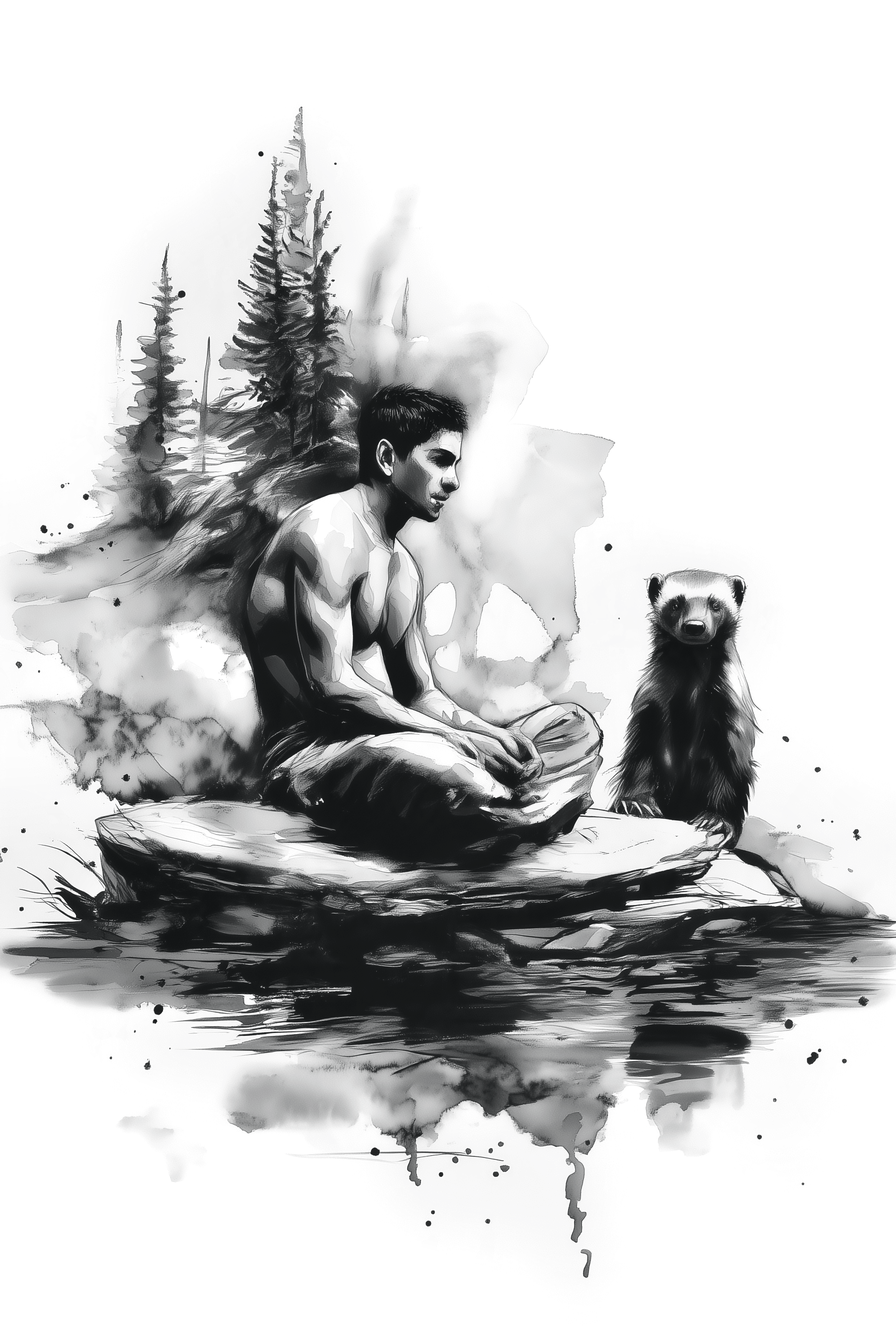
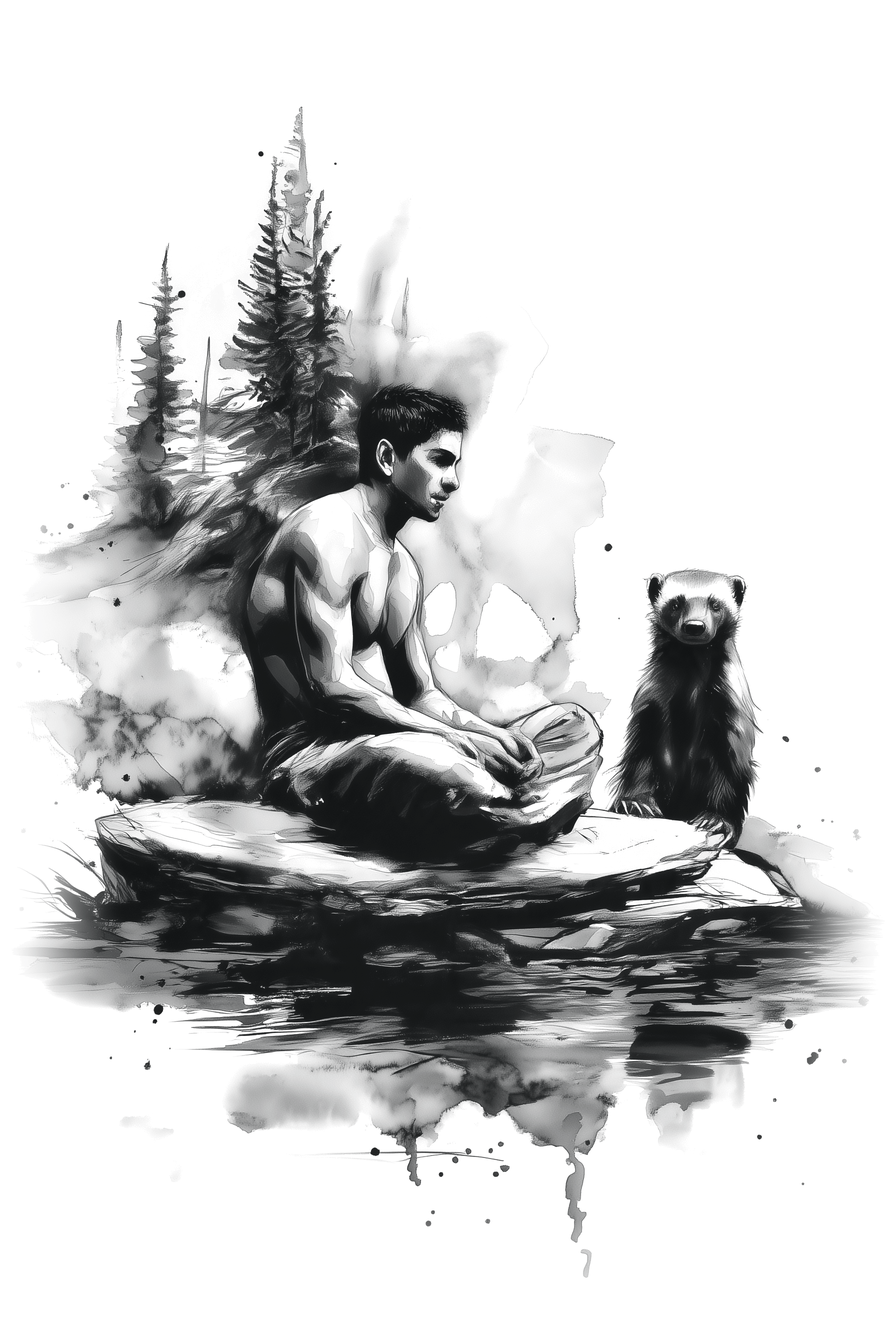
feat(skills): a tool shows up in every direction it serves
OpenAPI, Apollo and the rest are not backend-only: the front end talks
to them every day. And anything that spans directions is fullstack by
definition.

- A tool keeps one home row (the job it does there) and now names every
  direction it works in. Each tab shows what it borrows from the others
  in a "cross-cutting" row, and the fullstack tab collects all of them.
- The dot's tooltip lists the whole set, fullstack included: Git works
  in frontend, backend, devops and fullstack.

Also: the About painting fades to nothing at its edges. It is levelled,
turned into ink on transparency, the palest wash is dropped as paper and
the borders are feathered in the file itself, so there is no edge left
to see — the CSS mask is gone with it.

diff --git a/src/pages/home/views/sections/SkillsSection.vue b/src/pages/home/views/sections/SkillsSection.vue
@@ -5,7 +5,8 @@ import { useInView } from '@/shared/composables/useInView'
 import {
   allChips,
   coreSkills,
-  crossChips,
+  crossFor,
+  directionsOf,
   stackCount,
   stackGroups,
   strongChips,
@@ -25,12 +26,19 @@ const matches = (chip: string) => chip.toLowerCase().includes(query.value.trim()
 const strong = (chip: string) => strongChips.includes(chip)
 // marked with a dot: one home on the shelf, but it works in other directions too,
 // and the mark says which ones instead of listing the tool twice
-const cross = (chip: string) => crossChips[chip] ?? null
-const alsoIn = (chip: string) => {
-  const directions = cross(chip)
-  if (!directions) return undefined
-  const list = directions.map((id) => t(`home.skills.tabs.${id}`)).join(', ')
+const cross = (chip: string) => directionsOf(chip).length > 1
+const worksIn = (chip: string) => {
+  if (!cross(chip)) return undefined
+  const list = directionsOf(chip)
+    .map((id) => t(`home.skills.tabs.${id}`))
+    .join(', ')
   return t('home.skills.alsoIn', { list })
+}
+
+// a direction shows its own rows plus what it borrows from the others
+const rowsOf = (group: (typeof stackGroups)[number]) => {
+  const borrowed = crossFor(group.id)
+  return borrowed.length ? [...group.rows, { id: 'cross', chips: borrowed }] : group.rows
 }
 
 // While searching the tabs step aside: the results come from all four
@@ -39,7 +47,7 @@ const shelfGroups = computed(() =>
   (searching.value ? stackGroups : stackGroups.filter(({ id }) => id === tab.value))
     .map((group) => ({
       ...group,
-      rows: group.rows
+      rows: rowsOf(group)
         .map((row) => ({ ...row, chips: searching.value ? row.chips.filter(matches) : row.chips }))
         .filter(({ chips }) => chips.length),
     }))
@@ -183,16 +191,16 @@ const found = computed(() => allChips.filter(matches).length)
                 class="skills__chip"
                 :class="{
                   'skills__chip--strong': strong(chip),
-                  'skills__chip--cross': !!cross(chip),
+                  'skills__chip--cross': cross(chip),
                 }"
                 :tabindex="cross(chip) ? 0 : undefined"
-                :data-tip="alsoIn(chip)"
+                :data-tip="worksIn(chip)"
                 >{{ chip
                 }}<span
                   v-if="cross(chip)"
                   class="skills__tip"
                   role="tooltip"
-                  >{{ alsoIn(chip) }}</span
+                  >{{ worksIn(chip) }}</span
                 ></span
               >
             </div>

diff --git a/src/pages/home/model/portfolio.ts b/src/pages/home/model/portfolio.ts
@@ -124,16 +124,53 @@ export const stackGroups: StackGroup[] = [
 ]
 
 /**
- * Tools that genuinely work in more than one direction. They keep a single
- * home on the shelf (so nothing is listed twice) and name the other
- * directions they also belong to.
+ * Tools that work in more than one direction. Each keeps a home row (so the
+ * shelf reads as a list of jobs, not a wall of repeats) and names the other
+ * directions it belongs to; every tab then shows them again in a
+ * "cross-cutting" row. Anything that spans directions is fullstack by
+ * definition, so the fullstack tab collects all of them.
  */
 export const crossChips: Record<string, StackId[]> = {
   TypeScript: ['backend'],
-  Node: ['devops'],
+  Node: ['frontend', 'devops'],
   'REST API': ['frontend'],
+  'OpenAPI / Swagger': ['frontend'],
+  'Apollo (GraphQL)': ['frontend'],
+  CryptoPro: ['frontend'],
+  reCAPTCHA: ['frontend'],
   Docker: ['backend'],
   'Git (GitHub / GitLab)': ['frontend', 'backend', 'devops'],
+  Vite: ['devops'],
+  Webpack: ['devops'],
+  Vitest: ['frontend', 'backend'],
+  'ESLint / Prettier': ['frontend', 'backend'],
+  i18n: ['frontend'],
+  'Yandex Metrica': ['frontend'],
+  Postman: ['backend'],
+}
+
+/** Which direction a tool is filed under. */
+export const homeOf = (chip: string): StackId | undefined =>
+  stackGroups.find(({ rows }) => rows.some((row) => row.chips.includes(chip)))?.id
+
+/**
+ * The tools a direction borrows: everything filed elsewhere that also works
+ * here. Fullstack borrows every cross-cutting tool, since spanning directions
+ * is what fullstack means.
+ */
+export const crossFor = (id: StackId): string[] =>
+  Object.entries(crossChips)
+    .filter(([chip, directions]) =>
+      id === 'fullstack' ? homeOf(chip) !== 'fullstack' : directions.includes(id)
+    )
+    .map(([chip]) => chip)
+
+/** Every direction a tool works in, its home first. */
+export const directionsOf = (chip: string): StackId[] => {
+  const home = homeOf(chip)
+  const others = crossChips[chip] ?? []
+  const all = home ? [home, ...others] : others
+  return all.length > 1 && !all.includes('fullstack') ? [...all, 'fullstack'] : all
 }
 
 /** Worked with day to day: these are inked solid, the rest are outlines. */

diff --git a/src/pages/home/model/portfolio.test.ts b/src/pages/home/model/portfolio.test.ts
@@ -6,6 +6,9 @@ import {
   allChips,
   coreSkills,
   crossChips,
+  crossFor,
+  directionsOf,
+  homeOf,
   stackGroups,
   strongChips,
   projects,
@@ -56,10 +59,14 @@ describe('portfolio CV data', () => {
     // a cross-cutting tool is listed once and names other directions, never its own
     for (const [chip, directions] of Object.entries(crossChips)) {
       expect(chips.filter((x) => x === chip)).toHaveLength(1)
-      const home = stackGroups.find(({ rows }) => rows.some((row) => row.chips.includes(chip)))?.id
-      expect(directions).not.toContain(home)
-      expect(directions.length).toBeGreaterThan(0)
+      expect(directions).not.toContain(homeOf(chip))
+      expect(directionsOf(chip).length).toBeGreaterThan(1)
     }
+    // anything that spans directions is fullstack, so that tab borrows them all
+    expect(crossFor('fullstack')).toEqual(
+      Object.keys(crossChips).filter((chip) => homeOf(chip) !== 'fullstack')
+    )
+    expect(crossFor('frontend')).toContain('OpenAPI / Swagger')
     expect(new Set(chips).size).toBe(chips.length)
     // Removed on purpose while aligning the site with the CV — putting any of
     // them back means adding it to the CV first.

diff --git a/src/pages/home/views/sections/AboutSection.vue b/src/pages/home/views/sections/AboutSection.vue
@@ -133,9 +133,8 @@ const { targetRef: spread, inView: shown } = useInView({ threshold: 0.12 })
     width: 100%;
     max-width: none;
     height: auto;
-    // the painting is ink on transparency, so it lies on the paper itself; the
-    // mask only softens what little edge the sheet had
-    mask-image: radial-gradient(125% 96% at 45% 48%, #000 62%, transparent 92%);
+    // the painting is ink on transparency and already fades out in the file
+    // itself, so it lies on the paper with no edge of any kind
     filter: blur(6px);
     opacity: 0;
     transition:
